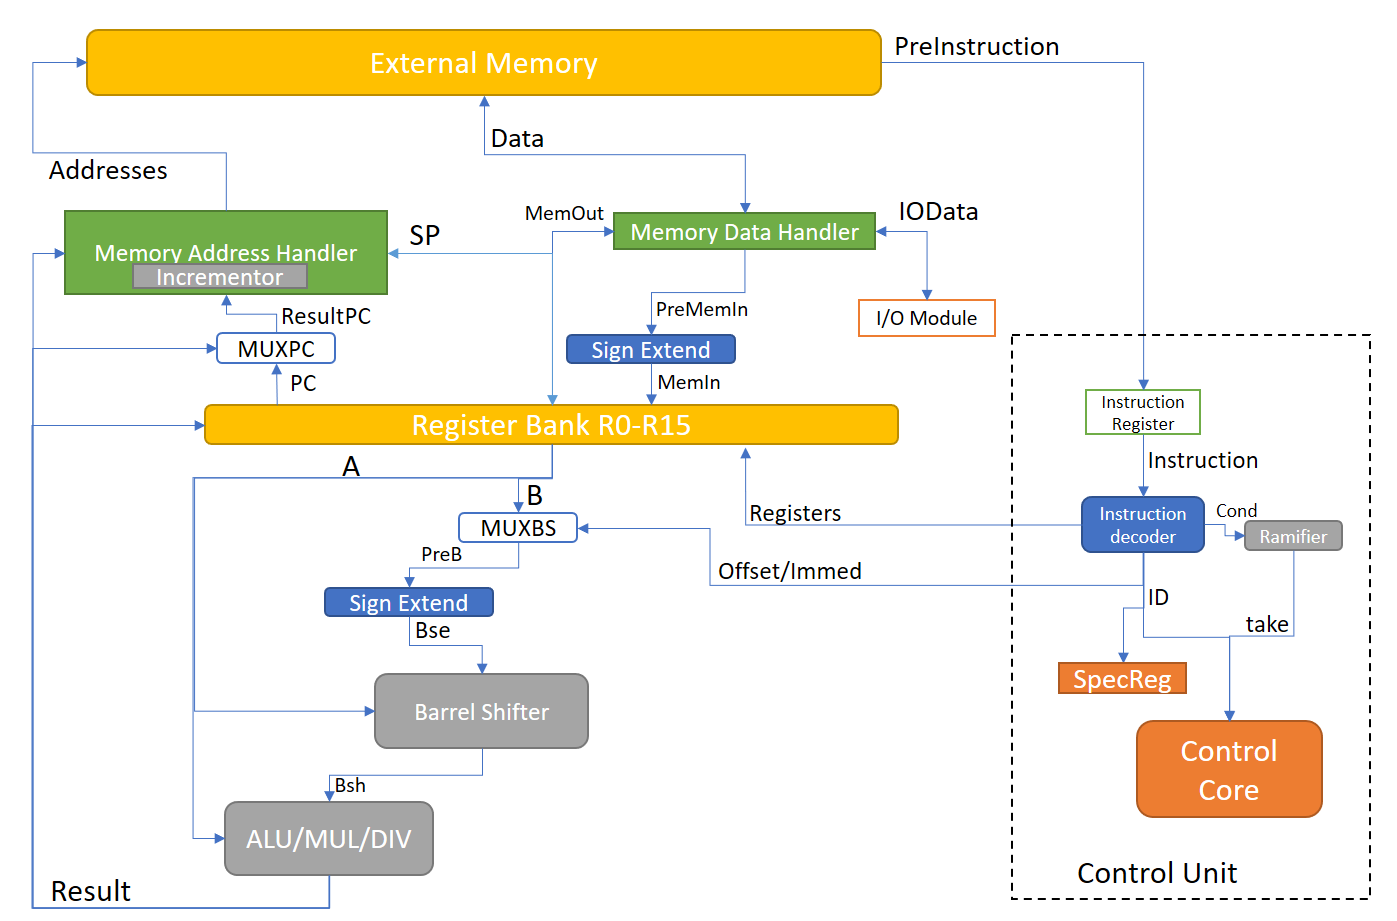
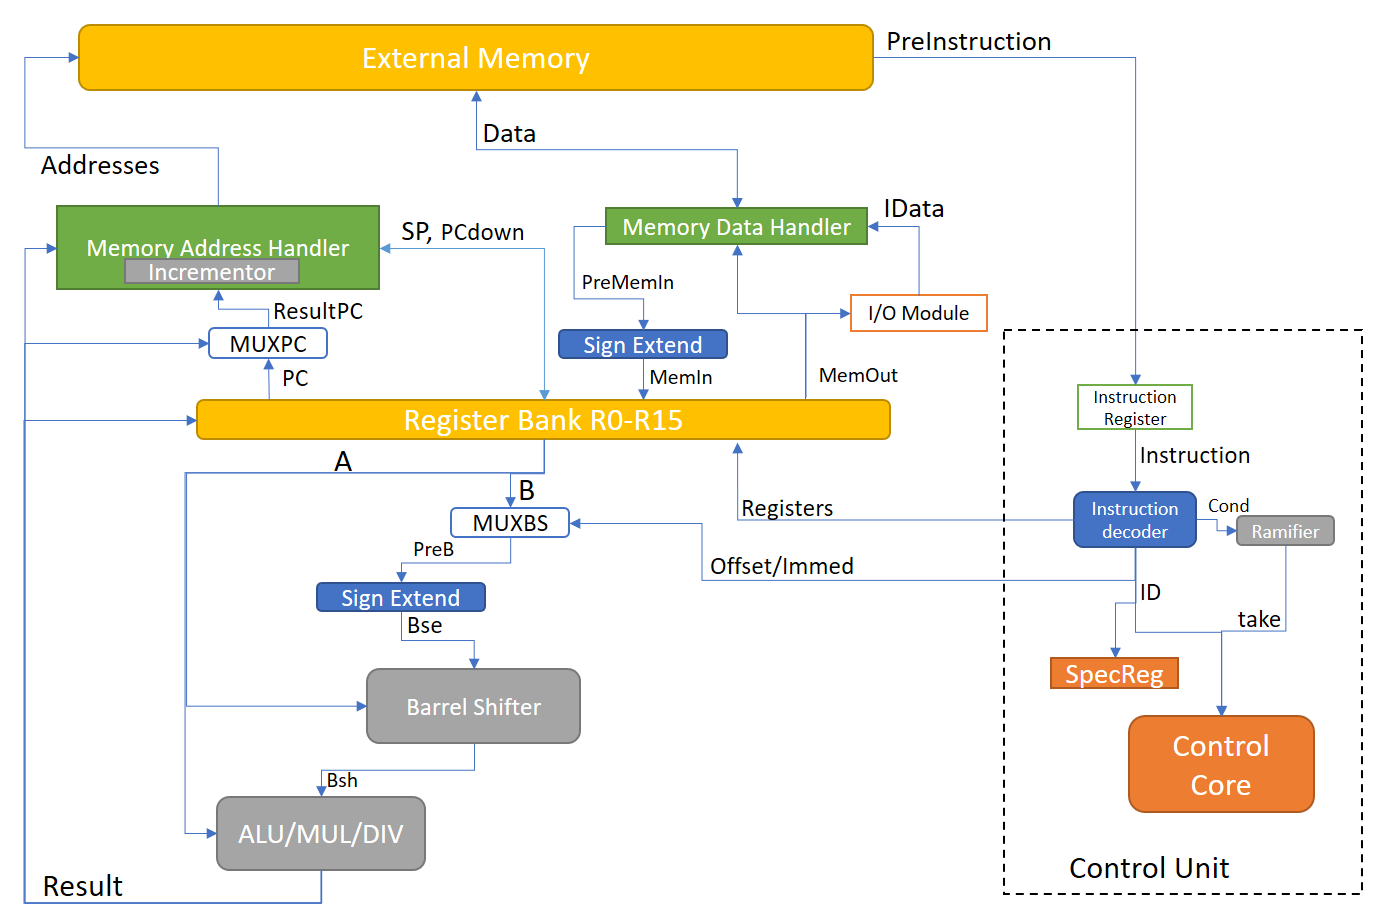
New Architecture, Fixed IO, Expandable Stack on MAH

diff --git a/Assembler.cs b/Assembler.cs
@@ -9,19 +9,17 @@ namespace ARMAria_AssemblerNoGUI
 {
     class memoria
     {
-        public int code, user, priv, io, data, memorysize, cc, cu, cp, cio, cd;
+        public int code, user, priv, data, memorysize, cc, cu, cp, cd;
         public memoria()
         {
-            memorysize = 12348;
-            user = 4097;
-            priv = 6145;
-            io = 8193;
-            data = 8201;
+            memorysize = 48;
+            user = 31;
+            priv = 36;
+            data = 43;
             code = 0;
             cc = code;
             cu = user;
             cp = priv;
-            cio = io;
             cd = data;
         }
 
@@ -35,8 +33,6 @@ namespace ARMAria_AssemblerNoGUI
                     return cu;
                 case 3:
                     return cp;
-                case 4:
-                    return cio;
                 case 5:
                     return cd;
                 default:
@@ -68,17 +64,7 @@ namespace ARMAria_AssemblerNoGUI
                     }
                 //break;
                 case 3:
-                    if (cp + quant - 1 < io)
-                    {
-                        return true;
-                    }
-                    else
-                    {
-                        return false;
-                    }
-                //break;
-                case 4:
-                    if (cio + quant - 1 < data)
+                    if (cp + quant - 1 < data)
                     {
                         return true;
                     }
@@ -129,20 +115,9 @@ namespace ARMAria_AssemblerNoGUI
                     }
                     break;
                 case 3:
-                    if (cp + quant - 1 < io)
+                    if (cp + quant - 1 < data)
                     {
                         cp += quant;
-                        return true;
-                    }
-                    else
-                    {
-                        return false;
-                    }
-                    break;
-                case 4:
-                    if (cio + quant - 1 < data)
-                    {
-                        cio += quant;
                         return true;
                     }
                     else
@@ -796,8 +771,8 @@ namespace ARMAria_AssemblerNoGUI
             Console.WriteLine("Configuração:");
             Console.Write("|" + processador.code + "---Code---"); Console.Write(processador.user - 1); Console.WriteLine("|");
             Console.Write("|" + processador.user + "---User Stack---"); Console.Write(processador.priv - 1); Console.WriteLine("|");
-            Console.Write("|" + processador.priv + "---Privileged Stack---"); Console.Write(processador.io - 1); Console.WriteLine("|");
-            Console.Write("|" + processador.io + "---Input Output---"); Console.Write(processador.data - 1); Console.WriteLine("|");
+            Console.Write("|" + processador.priv + "---Privileged Stack---"); Console.Write(processador.data - 1); Console.WriteLine("|");
+            //Console.Write("|" + processador.io + "---Input Output---"); Console.Write(processador.data - 1); Console.WriteLine("|");
             Console.Write("|" + processador.data + "---Data---"); Console.Write(processador.memorysize); Console.WriteLine("|");
             Console.WriteLine("");
             Console.WriteLine("");
@@ -849,9 +824,10 @@ namespace ARMAria_AssemblerNoGUI
                         break;
                     case 2:
                         Console.WriteLine("Onde você deseja adicionar?");
-                        Console.WriteLine("Digite: 1 para região Code, 2 para região User Stack, 3 para região Privileged Stack, 4 para Região E/S, 5 para região Dados");
+                        Console.WriteLine("Digite: 1 para região Code, 2 para região User Stack, 3 para região Privileged Stack, 4 para região Dados");
                         int local = Convert.ToInt32(Console.ReadLine());
                         local = local < 1 ? 1 : local > 5 ? 5 : local;
+                        local = (local == 4) ? 5 : local;
                         Console.WriteLine("Digite um dado no intervalo de 0-255");
                         byte dado = Convert.ToByte(Console.ReadLine());
                         if (processador.canadd(local, 1))
@@ -868,9 +844,10 @@ namespace ARMAria_AssemblerNoGUI
                         break;
                     case 3:
                         Console.WriteLine("Onde você deseja adicionar?");
-                        Console.WriteLine("Digite: 1 para região Code, 2 para região User Stack, 3 para região Privileged Stack, 4 para Região E/S, 5 para região Dados");
+                        Console.WriteLine("Digite: 1 para região Code, 2 para região User Stack, 3 para região Privileged Stack, 4 para região Dados");
                         int local1 = Convert.ToInt32(Console.ReadLine());
                         local1 = local1 < 1 ? 1 : local1 > 5 ? 5 : local1;
+                        local1 = (local1 == 4) ? 5 : local1;
                         Console.WriteLine("Digite um dado no intervalo de 0-65535");
                         String leitura = convlBinario(Convert.ToInt64(Console.ReadLine()), 16);
 
@@ -893,9 +870,10 @@ namespace ARMAria_AssemblerNoGUI
                         break;
                     case 4:
                         Console.WriteLine("Onde você deseja adicionar?");
-                        Console.WriteLine("Digite: 1 para região Code, 2 para região User Stack, 3 para região Privileged Stack, 4 para Região E/S, 5 para região Dados");
+                        Console.WriteLine("Digite: 1 para região Code, 2 para região User Stack, 3 para região Privileged Stack, 4 para região Dados");
                         int local2 = Convert.ToInt32(Console.ReadLine());
                         local2 = local2 < 1 ? 1 : local2 > 5 ? 5 : local2;
+                        local2 = (local2 == 4) ? 5 : local2;
                         Console.WriteLine("Digite um dado no intervalo de 0-4294967295");
                         String leitura1 = convlBinario(Convert.ToInt64(Console.ReadLine()), 32);
 
